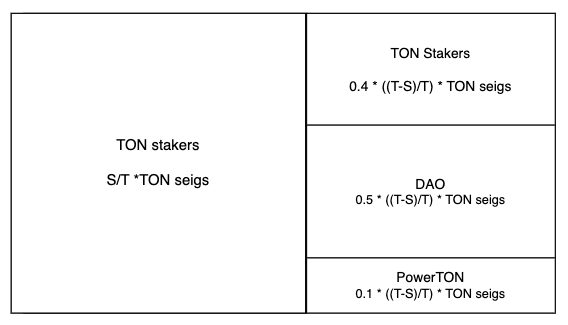
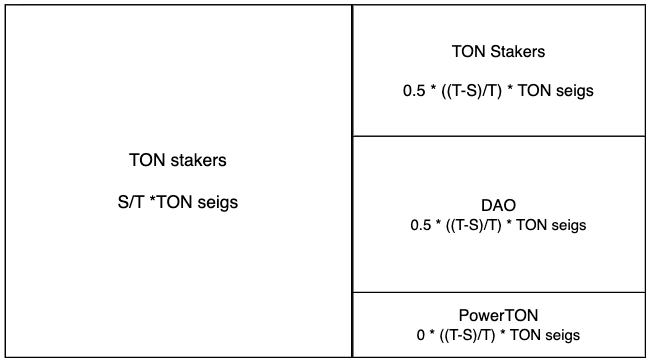
doc: add the seigniorage distribution logic description

diff --git a/docs/en/ton-staking-v2.md b/docs/en/ton-staking-v2.md
@@ -17,16 +17,44 @@ $TON seigs :　Amount　of　TON　seigniorage　issued$<br/>
 $D :　Total　TON　liquidity　of　Layer2$<br/>
 
 - Seigniorage distribution of V1
-<figure>
-    <img src="https://github.com/tokamak-network/ton-staking-v2/blob/staking-v2.5/docs/img/1-1.png" alt="Seigniorage distribution of V1" width=500>
-    <figcaption> </figcaption>
-</figure>
+    - Distribution ratio :
+        The seigniorage is distributed according to the following ratio from the remaining seigniorage after deducting the seigniorage equivalent of ratios to the staking amount compared to the TON total supply from the seigniorage issuance (Based on block 21762995)
+        - DAOSeigRate (Distribution ratio to Tokamak Network DAO): 0.5
+        - PowerTONSeigRate (Distribution ratio to PowerTON): 0
+        - RelativeSeigRate (Distribution ratio to TON stakers) : 0.5
+
+    - Seigniorage received by TON stakers : <br/>
+        $TONseigs* (S/T +  RelativeSeigRate*(T-S)/T)$ <br/>
+        > $TONseigs* (S/T + 0.5*(T-S)/T)$
+    - Seigniorage received by Tokamak Network DAO : $TONseigs*  DAOSeigRate*(T-S)/T$ <br/>
+        >  $TONseigs*  0.5*(T-S)/T$
+    - Seigniorage received by PowerTON : $TONseigs*  PowerTONSeigRate*(T-S)/T$  <br/>
+        > 0
+
+    <figure>
+        <img src="https://github.com/tokamak-network/ton-staking-v2/blob/staking-v2.5/docs/img/1-1.png" alt="Seigniorage distribution of V1" width=500>
+    </figure>
 
 - Seigniorage distribution of V2.5
-<figure>
-    <img src="https://github.com/tokamak-network/ton-staking-v2/blob/staking-v2.5/docs/img/1-2.png" alt="Seigniorage distribution of V2" width=500>
-    <figcaption> </figcaption>
-</figure>
+    - Distribution ratio :
+        The seigniorage is distributed according to the following ratio from the remaining seigniorage after deducting the seigniorage equivalent of ratios to the staking amount compared to the TON total supply from the seigniorage issuance (If there is no change in the distribution ratio of block 21762995)
+        - DAOSeigRate (Distribution ratio to Tokamak Network DAO): 0.5
+        - PowerTONSeigRate (Distribution ratio to PowerTON): 0
+        - RelativeSeigRate (Distribution ratio to TON stakers) : 0.5
+     - Total signiﬁcance received by all sequencers in Layer2 : <br/>
+        $TONseigs * D/T  $ <br/>
+        > $TONseigs* D/T$
+    - Seigniorage received by TON stakers : <br/>
+        $TONseigs* (S/T +  RelativeSeigRate*(T-S)/T)$ <br/>
+        > $TONseigs* (S/T + 0.5*(T-S)/T)$
+    - Seigniorage received by Tokamak Network DAO : $TONseigs*  DAOSeigRate*(T-S)/T$ <br/>
+        >  $TONseigs*  0.5*(T-S)/T$
+    - Seigniorage received by PowerTON : $TONseigs*  PowerTONSeigRate*(T-S)/T$  <br/>
+        > 0
+
+    <figure>
+        <img src="https://github.com/tokamak-network/ton-staking-v2/blob/staking-v2.5/docs/img/1-2.png" alt="Seigniorage distribution of V2.5" width=500>
+    </figure>
 
 
 ## Add CandidateAddOn
